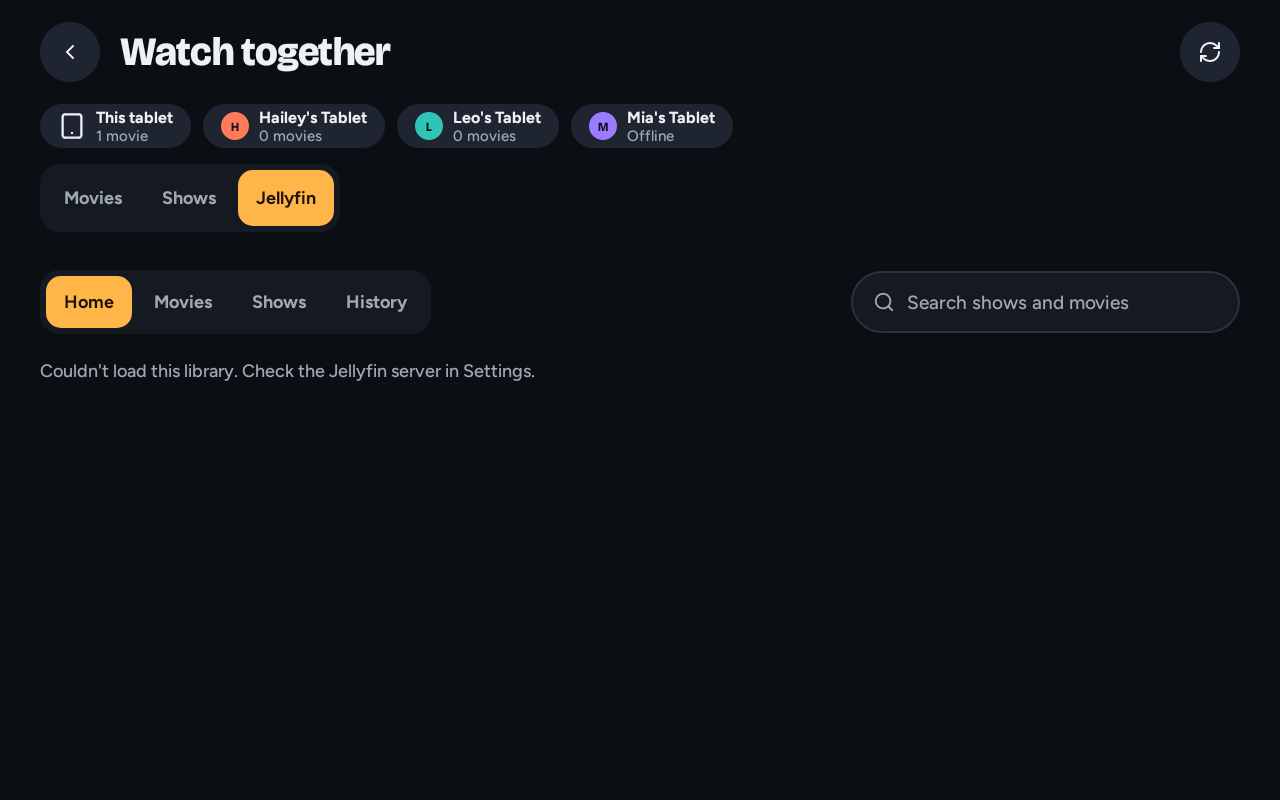
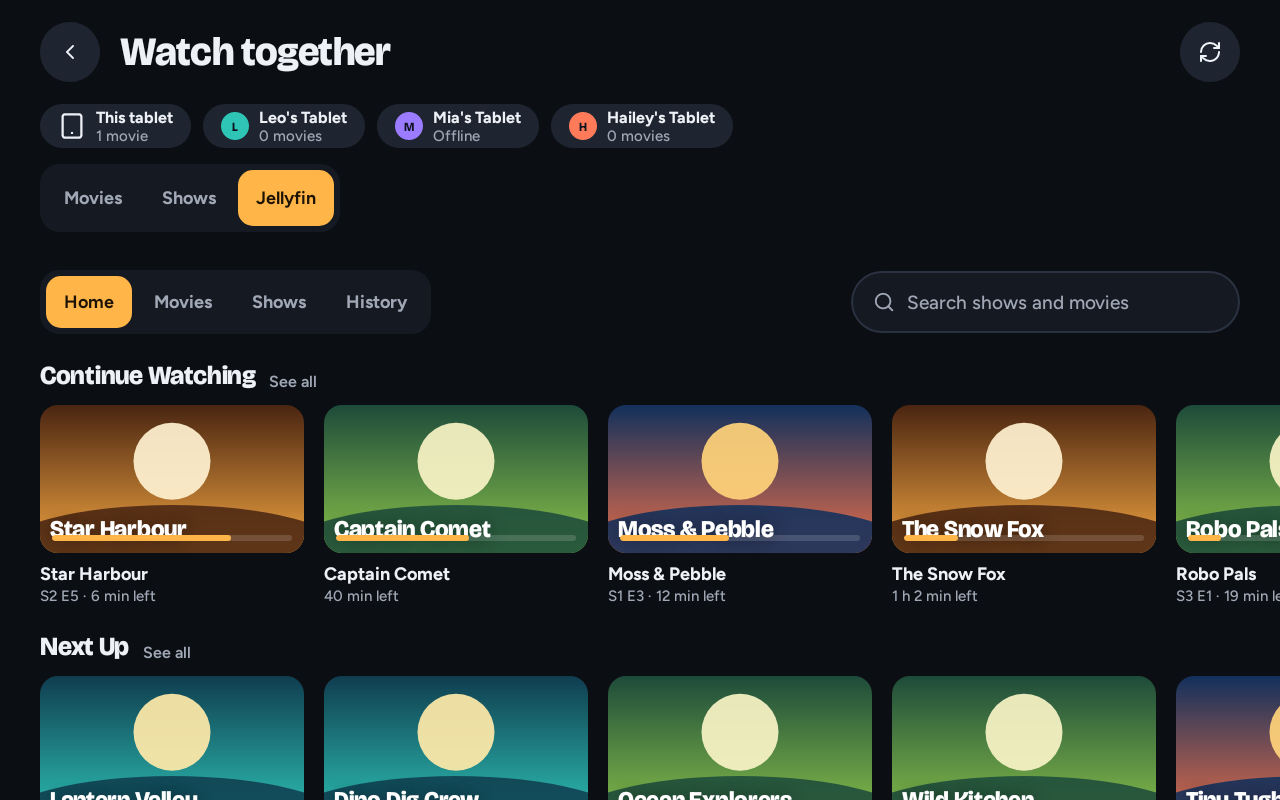
Watch together Jellyfin picture: draw a loaded library, not a timing race

diff --git a/app/src/test/java/com/nbaltas/nickos/DesignScreensTest.kt b/app/src/test/java/com/nbaltas/nickos/DesignScreensTest.kt
@@ -450,10 +450,9 @@ class DesignScreensTest {
     )
 
     @Test fun togetherJellyfinBrowse() {
-        app.store.setJellyfin(JellyfinAccount("https://jf.local", "dad", "tok", "u1", true))
         addStatus("cccccccccccc", 23)
         set(app.master.sync, "_videos", mapOf(Library.SELF to DeviceLibrary(true, listOf(video("cc", "Captain Comet")))))
-        shot("Together-Jellyfin-Browse") { TogetherScreen({}, {}, initialSegment = 2) }
+        jellyfinShot("Together-Jellyfin-Browse", null, "Continue Watching", together = true)
     }
 
     @Test fun togetherJellyfinPick() {
@@ -633,16 +632,23 @@ class DesignScreensTest {
         return server
     }
 
-    /** Runs the Control screen's Watch tab against [fakeJellyfin], opens the Jellyfin library, optionally taps [open], and saves the picture. */
+    /** Loads fixture rows in Control Watch or Together, optionally taps [open], and saves the loaded picture. */
     @OptIn(androidx.compose.ui.test.ExperimentalTestApi::class)
-    private fun jellyfinShot(name: String, open: String?, waitFor: String) {
+    private fun jellyfinShot(name: String, open: String?, waitFor: String, together: Boolean = false) {
         val server = fakeJellyfin()
         try {
             app.store.setJellyfin(JellyfinAccount("http://127.0.0.1:${server.localPort}", "dad", "tok", "u1", true))
             app.store.upsertNode(app.store.nodes.value.first { it.id == "aaaaaaaaaaaa" }.copy(jfUserId = "u1", jfUserName = "Hailey"))
             androidx.compose.ui.test.runAndroidComposeUiTest<androidx.activity.ComponentActivity> {
-                setContent { NickTheme { Box(Modifier.fillMaxSize().background(C.bg)) { ControlScreen("aaaaaaaaaaaa", TAB_WATCH, {}, {}, {}) } } }
-                onNodeWithTag("jellyfin-library").performClick()
+                setContent {
+                    NickTheme {
+                        Box(Modifier.fillMaxSize().background(C.bg)) {
+                            if (together) TogetherScreen({}, {}, initialSegment = 2)
+                            else ControlScreen("aaaaaaaaaaaa", TAB_WATCH, {}, {}, {})
+                        }
+                    }
+                }
+                if (!together) onNodeWithTag("jellyfin-library").performClick()
                 fun has(t: String) = onAllNodes(hasText(t, substring = true)).fetchSemanticsNodes().isNotEmpty()
                 waitUntil(timeoutMillis = 20_000) { has("Continue Watching") }
                 if (open != null) {
